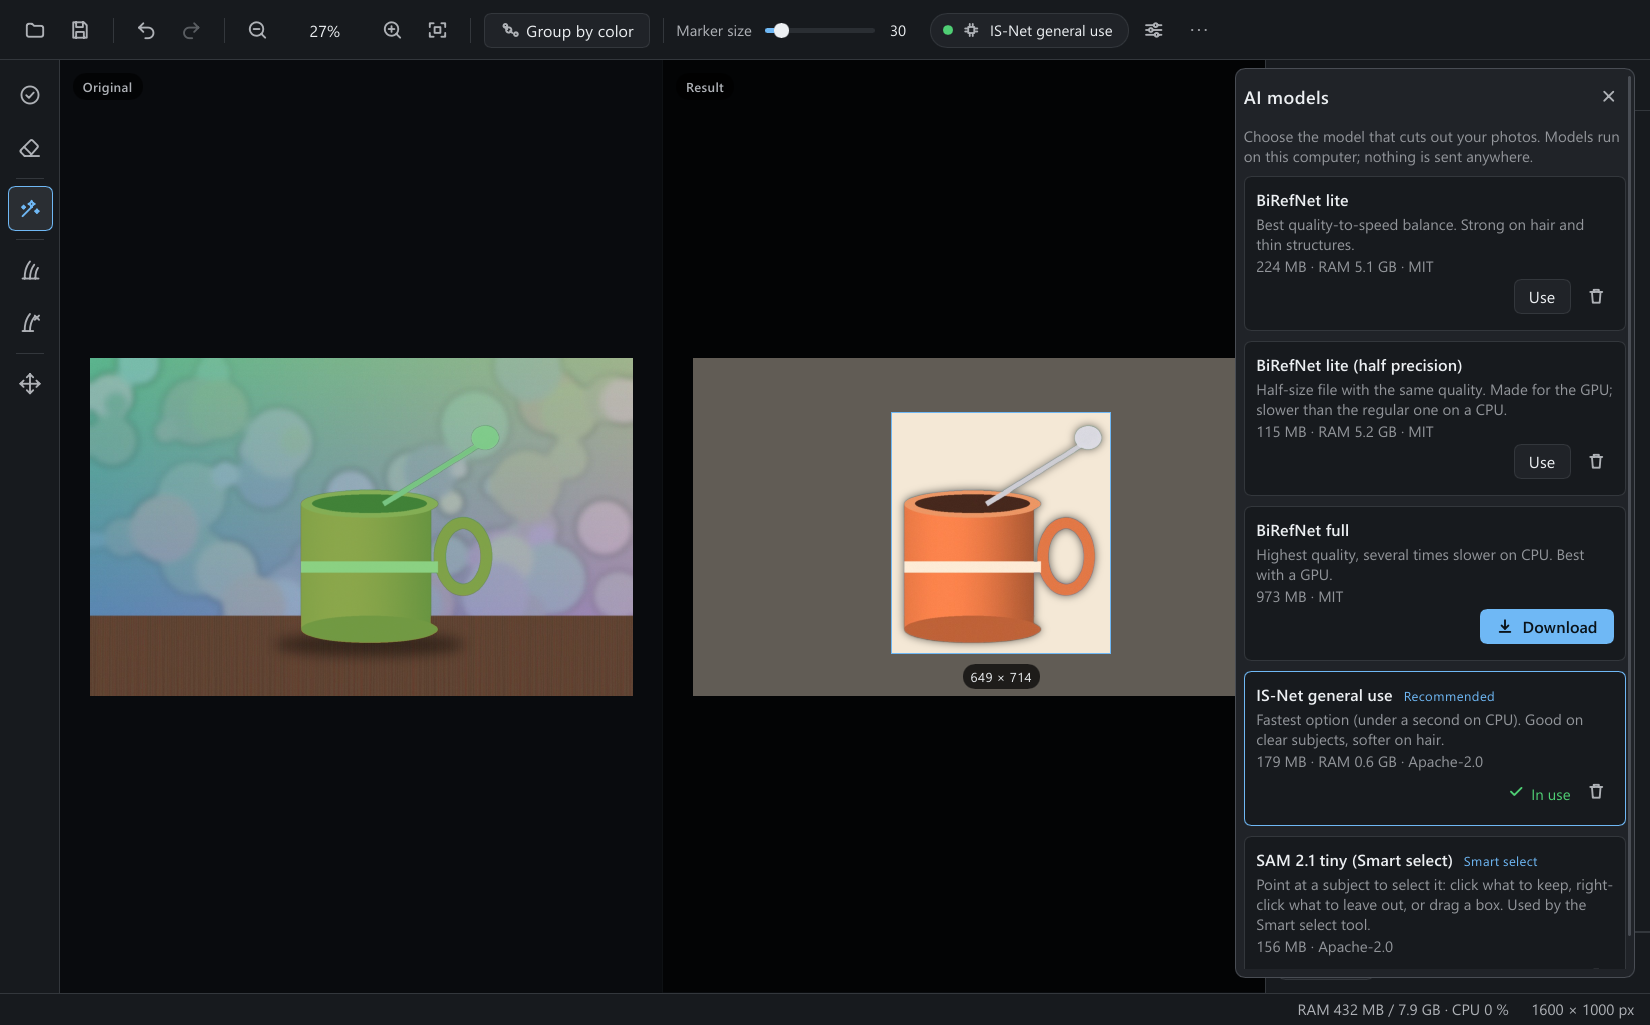
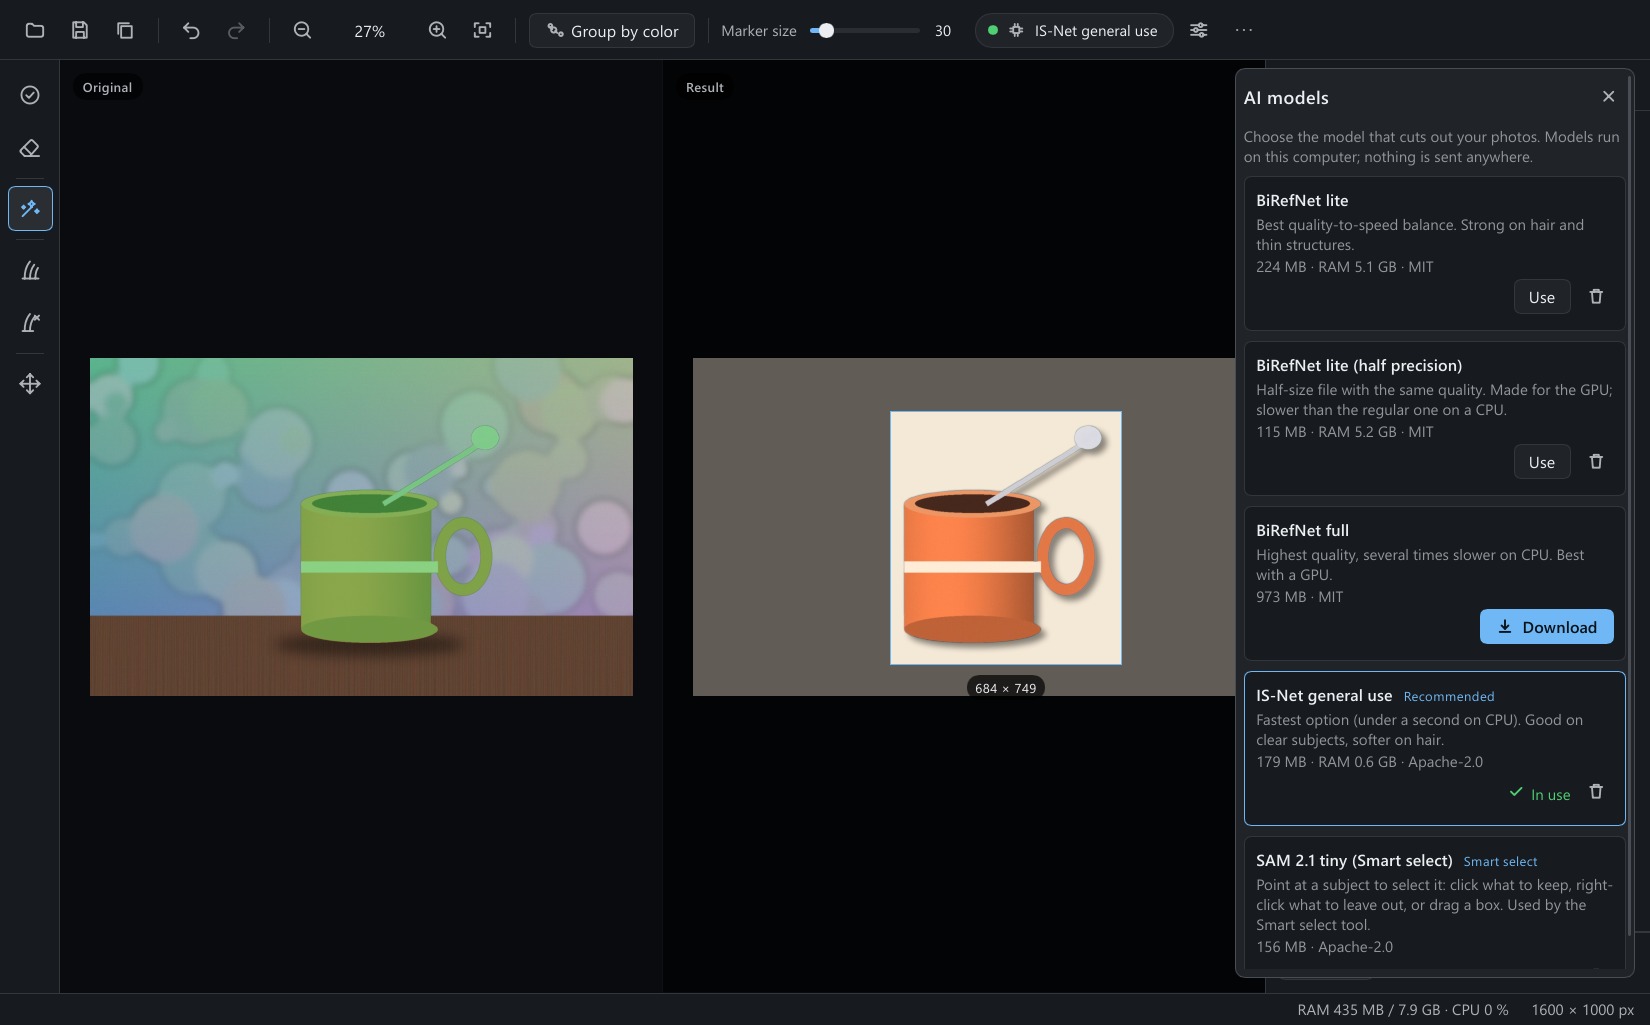
docs: describe the shadow offset, colour adjustments, clipboard and limits, with fresh screenshots

diff --git a/README.fr.md b/README.fr.md
@@ -36,14 +36,20 @@ Voilà. Environ 240 Mo de mémoire avec une photo ouverte (modèle non compté),
 - **Sélection intelligente** : cliquez ce que vous voulez, clic droit ce que vous ne voulez pas, ou tracez un cadre (modèle SAM 2, léger).
 - **Fonds** : transparent, couleur unie, une image, ou l'original avec le sujet comblé. Flou, niveaux de gris, négatif, pixellisation ou coloration sur l'une ou l'autre couche.
 - **Nettoyage des bords** : les bords doux (cheveux, adoucissement) perdent la couleur de l'ancien fond, donc aucun halo sur le nouveau.
-- **Ombre, recadrage à un ratio, marge**, puis export en PNG, JPEG, WebP, TIFF ou BMP. Les sources 16 bits peuvent rester en 16 bits.
+- **Réglage des couleurs** du sujet seul (luminosité, saturation, chaleur) pour qu'il s'accorde à son nouveau fond.
+- **Ombre** (flou, opacité, couleur, décalage vers la droite et le bas), **recadrage à un ratio, marge**, puis export en PNG, JPEG, WebP, TIFF ou BMP. Les sources 16 bits peuvent rester en 16 bits.
 - **Largeur de sortie et préréglages** (marketplace 1000 ou 2000 px, miniature, bannière 16:9) : le résultat sort à la taille exacte, centré, sur fond blanc ou transparent.
+- **Copier-coller** : <kbd>Ctrl</kbd>+<kbd>V</kbd> ouvre l'image du presse-papiers (ou un fichier image copié dans l'explorateur) ; un clic, ou <kbd>Ctrl</kbd>+<kbd>C</kbd>, copie le résultat avec sa transparence.
 - **Traitement par lot** d'un dossier entier : déposez le dossier sur la fenêtre, avec vos réglages enregistrés ou ceux de l'image en cours, en PNG, JPEG ou WebP.
 - **4 langues** : English (par défaut), Français, Deutsch, Русский.
 - **Plug-ins** (optionnels, désactivés tant que vous ne les activez pas) : de petits programmes lancés sur le fichier que vous venez d'enregistrer.
 
 <p align="center">
-  <img src="docs/images/smart-select.png" alt="Sélection intelligente sur la tasse" width="440">
+  <img src="docs/images/smart-select.png" alt="Sélection intelligente sur la tasse, avec les réglages de contour, de couleurs et d'effet" width="440">
+  <img src="docs/images/shadow.png" alt="L'onglet Ombre : opacité, flou, décalage et couleur" width="440">
+</p>
+<p align="center">
+  <img src="docs/images/batch.png" alt="Le panneau du traitement par lot" width="440">
   <img src="docs/images/models.png" alt="Le panneau des modèles" width="440">
 </p>
 
@@ -53,7 +59,7 @@ Windows 10/11 (64 bits) est la plateforme testée. La page Releases propose auss
 
 1. Téléchargez le dernier zip pour votre système depuis la page Releases (`OpenScissors-…-portable-win-x64.zip`, `…-linux-x64.zip` ou `…-darwin-arm64.zip`) et décompressez-le où vous voulez.
 2. Lancez `OpenScissors.exe` (`OpenScissors` sous Linux et macOS).
-3. Ouvrez une image (le bouton, <kbd>Ctrl</kbd>+<kbd>O</kbd>, glisser-déposer, ou `OpenScissors.exe photo.jpg`).
+3. Ouvrez une image (le bouton, <kbd>Ctrl</kbd>+<kbd>O</kbd>, glisser-déposer, coller avec <kbd>Ctrl</kbd>+<kbd>V</kbd>, ou `OpenScissors.exe photo.jpg`).
 
 Au premier lancement, aucun modèle d'IA n'est installé (ils ne sont pas fournis). Cliquez sur la pastille en haut, choisissez-en un, **Télécharger**. Le fichier est vérifié par SHA-256 avant usage.
 
@@ -98,6 +104,7 @@ Supprimez `data/` pour repartir de zéro, `models/` pour libérer de la place. R
 | <kbd>F</kbd> garder · <kbd>B</kbd> supprimer (en *Grouper par couleur*) · <kbd>E</kbd> gomme | <kbd>S</kbd> sélection intelligente · <kbd>H</kbd> cheveux · <kbd>Maj</kbd>+<kbd>H</kbd> gomme cheveux |
 | <kbd>M</kbd> déplacer · <kbd>Espace</kbd> maintenu pour faire glisser | <kbd>[</kbd> <kbd>]</kbd> taille du pinceau |
 | <kbd>Ctrl</kbd>+<kbd>O</kbd> ouvrir · <kbd>Ctrl</kbd>+<kbd>S</kbd> enregistrer · <kbd>Ctrl</kbd>+<kbd>Maj</kbd>+<kbd>S</kbd> enregistrer sous | <kbd>Ctrl</kbd>+<kbd>Z</kbd> / <kbd>Y</kbd> annuler / rétablir |
+| <kbd>Ctrl</kbd>+<kbd>V</kbd> coller une image | <kbd>Ctrl</kbd>+<kbd>C</kbd> copier le résultat |
 | <kbd>Ctrl</kbd>+<kbd>0</kbd> 100 % · <kbd>Ctrl</kbd>+<kbd>9</kbd> ajuster · <kbd>Ctrl</kbd>+<kbd>+</kbd> / <kbd>-</kbd> zoom | molette : déplacer, <kbd>Ctrl</kbd>+molette : zoomer |
 | <kbd>Entrée</kbd> appliquer une sélection · <kbd>Retour arrière</kbd> retirer le dernier clic · <kbd>Échap</kbd> annuler | |
 
@@ -136,6 +143,7 @@ Détails dans [docs/ARCHITECTURE.md](docs/ARCHITECTURE.md) et [docs/PERF.md](doc
 - Windows est la plateforme testée. Le code est portable, les builds Linux et macOS (Apple Silicon) ne sont pas testés. Il n'y a pas de build macOS Intel : ONNX Runtime n'en fournit pas.
 - Le mode GPU (DirectML) fonctionne mais n'a rien accéléré sur la carte essayée ; il reste optionnel.
 - Le recadrage au clavier n'existe pas encore ; les poignées demandent un pointeur.
+- Les images sont limitées à 100 mégapixels (environ 11 000 × 9 000) et 32 768 pixels de côté, et l'historique d'annulation ne garde qu'environ 384 Mo : les plus anciennes étapes sont oubliées en premier.
 - Les messages d'erreur venant de Rust sont en anglais uniquement.
 - Les traductions n'ont pas été relues par des locuteurs natifs. Les corrections sont les bienvenues.
 

diff --git a/README.md b/README.md
@@ -36,14 +36,20 @@ So that's what this is. About 240 MB of memory with a photo open (not counting t
 - **Smart select**: click what you want, right-click what you don't, or drag a box (needs the small SAM 2 model).
 - **Backgrounds**: transparent, solid colour, any picture, or the original with the subject filled in. Blur, grayscale, negative, pixelate or colourize either layer.
 - **Clean up the edges**: soft edges (hair, feathering) lose the colour of the old background, so no halo shows on the new one.
-- **Shadow, crop to a ratio, padding**, then export to PNG, JPEG, WebP, TIFF or BMP. 16-bit sources can stay 16-bit.
+- **Adjust the colours** of the subject alone (brightness, saturation, warmth) so it sits right on its new background.
+- **Shadow** (blur, opacity, colour, offset right and down), **crop to a ratio, padding**, then export to PNG, JPEG, WebP, TIFF or BMP. 16-bit sources can stay 16-bit.
 - **Output width and presets** (marketplace 1000 or 2000 px, thumbnail, 16:9 banner): the result comes out at the exact size, centred, on white or transparent.
+- **Copy and paste**: <kbd>Ctrl</kbd>+<kbd>V</kbd> opens the picture on the clipboard (or an image file copied in your file manager); one click, or <kbd>Ctrl</kbd>+<kbd>C</kbd>, copies the result with its transparency.
 - **Batch mode** for a whole folder: drop the folder on the window, use your saved settings or those of the image you are editing, save as PNG, JPEG or WebP.
 - **4 languages**: English (default), Français, Deutsch, Русский.
 - **Plug-ins** (optional, off until you turn them on): small programs that run on the file you just saved.
 
 <p align="center">
-  <img src="docs/images/smart-select.png" alt="Smart select on the mug" width="440">
+  <img src="docs/images/smart-select.png" alt="Smart select on the mug, with the boundary, colour and effect settings" width="440">
+  <img src="docs/images/shadow.png" alt="The shadow tab: opacity, blur, offset and colour" width="440">
+</p>
+<p align="center">
+  <img src="docs/images/batch.png" alt="The batch panel" width="440">
   <img src="docs/images/models.png" alt="The models panel" width="440">
 </p>
 
@@ -53,7 +59,7 @@ Windows 10/11 (64-bit) is the tested platform. The Releases page also has a Linu
 
 1. Download the latest zip for your system from the Releases page (`OpenScissors-…-portable-win-x64.zip`, `…-linux-x64.zip` or `…-darwin-arm64.zip`) and unzip it anywhere.
 2. Run `OpenScissors.exe` (`OpenScissors` on Linux and macOS).
-3. Open an image (the button, <kbd>Ctrl</kbd>+<kbd>O</kbd>, drag and drop, or `OpenScissors.exe photo.jpg`).
+3. Open an image (the button, <kbd>Ctrl</kbd>+<kbd>O</kbd>, drag and drop, paste with <kbd>Ctrl</kbd>+<kbd>V</kbd>, or `OpenScissors.exe photo.jpg`).
 
 The first time, no AI model is installed (they are not bundled). Click the chip at the top, pick one, press **Download**. The file is checked against a SHA-256 before it is used.
 
@@ -98,6 +104,7 @@ Delete `data/` to start over, delete `models/` to free space. Nothing is written
 | <kbd>F</kbd> keep · <kbd>B</kbd> remove (in *Group by color*) · <kbd>E</kbd> erase | <kbd>S</kbd> smart select · <kbd>H</kbd> hair · <kbd>Shift</kbd>+<kbd>H</kbd> erase hair |
 | <kbd>M</kbd> move · hold <kbd>Space</kbd> to pan | <kbd>[</kbd> <kbd>]</kbd> brush size |
 | <kbd>Ctrl</kbd>+<kbd>O</kbd> open · <kbd>Ctrl</kbd>+<kbd>S</kbd> save · <kbd>Ctrl</kbd>+<kbd>Shift</kbd>+<kbd>S</kbd> save as | <kbd>Ctrl</kbd>+<kbd>Z</kbd> / <kbd>Y</kbd> undo / redo |
+| <kbd>Ctrl</kbd>+<kbd>V</kbd> paste an image | <kbd>Ctrl</kbd>+<kbd>C</kbd> copy the result |
 | <kbd>Ctrl</kbd>+<kbd>0</kbd> 100 % · <kbd>Ctrl</kbd>+<kbd>9</kbd> fit · <kbd>Ctrl</kbd>+<kbd>+</kbd> / <kbd>-</kbd> zoom | wheel pans, <kbd>Ctrl</kbd>+wheel zooms |
 | <kbd>Enter</kbd> apply a smart selection · <kbd>Backspace</kbd> remove the last click · <kbd>Esc</kbd> cancel | |
 
@@ -166,6 +173,7 @@ More in [docs/ARCHITECTURE.md](docs/ARCHITECTURE.md) and [docs/PERF.md](docs/PER
 - Windows is the platform I test. The code is portable, the Linux and macOS (Apple Silicon) builds are untested. There is no macOS Intel build: ONNX Runtime provides no binary for it.
 - The GPU mode (DirectML) works but didn't make anything faster on the card I tried, so it stays optional.
 - Moving the crop with the keyboard isn't there yet; the handles need a pointer.
+- Pictures are limited to 100 megapixels (about 11 000 × 9 000) and 32 768 pixels on a side, and the undo history keeps at most about 384 MB: the oldest steps are forgotten first.
 - Error messages coming from the Rust side are in English only.
 - The translations haven't been reviewed by native speakers. Corrections are welcome.
 

diff --git a/docs/ARCHITECTURE.md b/docs/ARCHITECTURE.md
@@ -14,30 +14,31 @@ crates/cli    command line: models, predict, cut, batch
 |---|---|
 | `model/` | `ModelRegistry` (catalogue + user models, SHA-256 checked downloads), `Predictor` (ONNX Runtime session, normalisation, guided up-sampling in bands), `Sam2` (encoder once per image, decoder per prompt) |
 | `mask/` | own GrabCut and Boykov–Kolmogorov max-flow, closed-form matting (coarse to fine), strokes |
-| `document.rs` | the open image: strokes, parameters, undo stack, the mask pipeline (a provisional mask is shown at once, the exact one is computed in the background), 16-bit export |
-| `render/` | viewport rendering at screen resolution, crop, filters, shadow, inpainting. The same code renders the export at scale 1 |
+| `document.rs` | the open image: strokes, parameters, undo stack (capped at 384 MB, oldest steps forgotten first), the mask pipeline (a provisional mask is shown at once, the exact one is computed in the background), 16-bit export |
+| `render/` | viewport rendering at screen resolution, crop, filters, colour adjustments, edge clean-up (`defringe`), shadow with offset, inpainting. The same code renders the export at scale 1 |
 | `project.rs`, `batch.rs`, `plugin.rs`, `settings.rs`, `sysmem.rs` | `.osproj` / `.psm` files, batch, plug-ins (opt-in, with a timeout), settings, memory budget |
 
 ## App
 
 ```
-ui/*.slint     theme tokens, widgets, dock, panels, dialogs, main window (Backend global = the contract with Rust)
-src/ctl.rs     Ctl: interface state + pushing it into the Slint properties (coalesced refreshes)
-src/ops.rs     document operations: open, save, export, projects, marks, parameters, batch, plug-ins
-src/models.rs  memory limits, model loading, prediction, background mask jobs, downloads, smart select
-src/input.rs   pointer and keyboard
-src/render.rs  render thread: keeps the latest request per view
-src/dialogs.rs questions drawn by the interface, system file choosers
-src/window.rs  remembers position and size of the window
-src/state.rs   portable folders, shared state
-src/i18n.rs    translations (keys are the English strings); .slint files use @tr, compiled from the same JSON
+ui/*.slint       theme tokens, widgets, dock, panels, dialogs, main window (Backend global = the contract with Rust)
+src/ctl.rs       Ctl: interface state + pushing it into the Slint properties (coalesced refreshes)
+src/ops.rs       document operations: open, save, export, projects, marks, parameters, batch, plug-ins
+src/models.rs    memory limits, model loading, prediction, background mask jobs, downloads, smart select
+src/input.rs     pointer and keyboard
+src/render.rs    render thread: keeps the latest request per view
+src/clipboard.rs system clipboard: paste an image or a copied file, copy the result (one long-lived handle, needed on X11)
+src/dialogs.rs   questions drawn by the interface, system file choosers
+src/window.rs    remembers position and size of the window
+src/state.rs     portable folders, shared state
+src/i18n.rs      translations (keys are the English strings); .slint files use @tr, compiled from the same JSON
 ```
 
 **Threads.** The interface thread only reads state and sets properties. Everything slow (decoding, inference, export, downloads) runs on worker threads and reports back through `Ctl::refresh`, which coalesces requests and runs on the interface thread. Rendering has its own thread with a "latest request wins" slot per view, so a burst of pans costs one render.
 
 **Pixels.** The window never holds the full image. It shows the last rendered region at the position the current pan and zoom give it (a Slint binding), and replaces it when the render thread delivers the next one.
 
-**Memory.** The budget (25 % of the RAM, 50 % optional) is checked before a model loads and before a prediction. ONNX Runtime's arena is off by default (it costs ~2.3x more); big images are filtered in bands.
+**Memory.** The budget (25 % of the RAM, 50 % optional) is checked before a model loads and before a prediction. ONNX Runtime's arena is off by default (it costs ~2.3x more); big images are filtered in bands. A picture over 100 megapixels is refused from its header, before anything is allocated (`io::check_dimensions`, also applied to projects and to the clipboard).
 
 ## Testing the interface without a mouse
 
